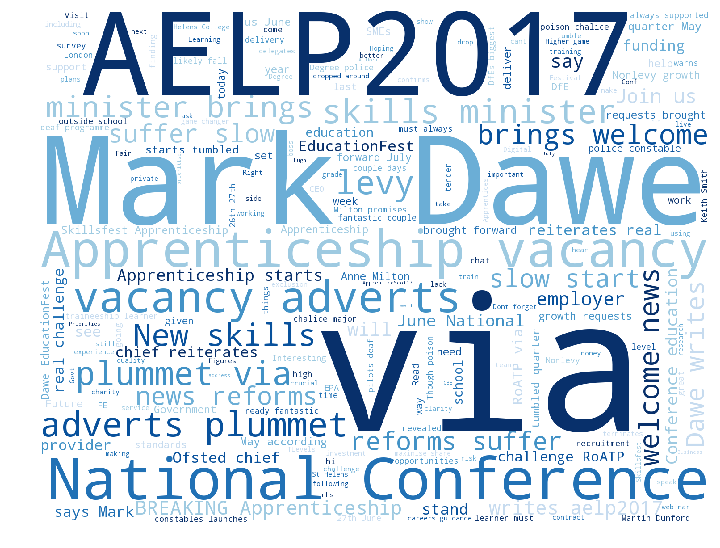
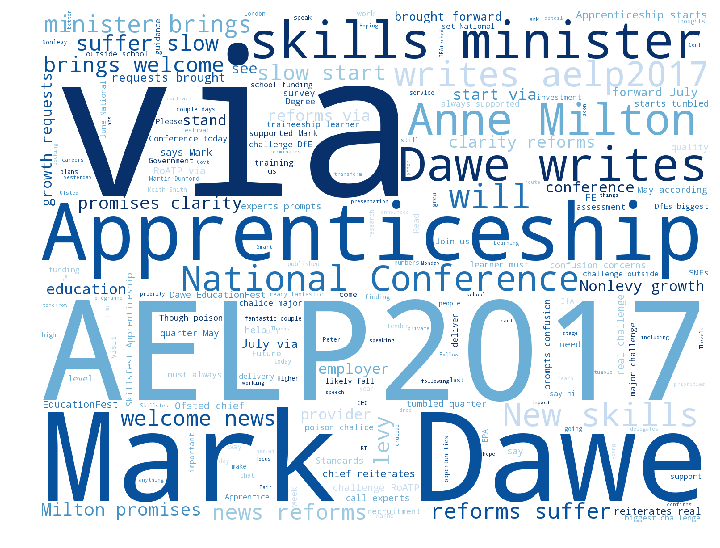
updated 170630

diff --git a/docs/current/FE-accounts/dashboard.html b/docs/current/FE-accounts/dashboard.html
@@ -172,27 +172,27 @@
         <div class="header">
             <span class="header"><img class="header" src="https://assets.publishing.service.gov.uk/government/uploads/system/uploads/organisation/logo/1214/6.2614_DFE_IfA_Identity_Master_logo_RGB_AW.jpg" /></span>
             <span class="header"><h1>Twitter Dashboard<h1/></span>
-            <p>651 followers, 27 tweets</p>
-            <p>17 June 2017 - 26 June 2017</p>
+            <p>669 followers, 28 tweets</p>
+            <p>21 June 2017 - 30 June 2017</p>
         </div>
         <div class="line"></div>
         <div style="width: 100%; height: 80%;">
             <div style="float:left; width: 49%;">
                 <div style="float:left; width: 49%;">
-                    <h2>108 tweets from FE-accounts:</h2>
+                    <h2>125 tweets from FE-accounts:</h2>
                     <img class="wc" src="main-wc.png" />
                     <div class="line"></div>
                     <div style="width: 48%; float:left; margin-left:0%;" class="listbox">
                         <p><b>Most Used Hashtags</b></p>
                         <ol>
-                            <li>educationfest</li>
                             <li>aelp2017</li>
-                            <li>apprenticeship</li>
+                            <li>educationfest</li>
                             <li>skillsfest</li>
                             <li>apprenticeships</li>
-                            <li>narts</li>
                             <li>apprentices</li>
                             <li>smes</li>
+                            <li>apprenticeship</li>
+                            <li>tefresults</li>
                         </ol>
                     </div>
                     <div style="float:right; width: 48%;" class="listbox">
@@ -200,27 +200,27 @@
                         <ol>
                             <li>aelpuk</li>
                             <li>ofstednews</li>
-                            <li>educationgovuk</li>
+                            <li>annemilton</li>
                             <li>apprenticeships</li>
                             <li>amanda_spielman</li>
-                            <li>annemilton</li>
-                            <li>ndcs_uk</li>
+                            <li>ifateched</li>
+                            <li>feweek</li>
                             <li>cityandguilds</li>
                         </ol>
                     </div>
                 </div>
                 <div style="float:right; width: 49%;">
-                    <h2>170 tweets mentioning FE-accounts:</h2>
+                    <h2>194 tweets mentioning FE-accounts:</h2>
                     <img class="wc" src="all-wc.png"/>
                     <div class="line"></div>
                     <div style="width: 48%; float:left; margin-left:0%;" class="listbox">
                         <p><b>Most Used Hashtags</b></p>
                         <ol>
-                            <li>apprenticeships</li>
                             <li>aelp2017</li>
+                            <li>apprenticeships</li>
                             <li>apprenticeship</li>
-                            <li>education</li>
                             <li>educationfest</li>
+                            <li>education</li>
                             <li>skillsfest</li>
                             <li>funding</li>
                             <li>smes</li>
@@ -233,10 +233,10 @@
                             <li>tesfenews</li>
                             <li>aelpuk</li>
                             <li>nicklinford</li>
-                            <li>ncfe</li>
-                            <li>ncfeschools</li>
-                            <li>cacheorg</li>
+                            <li>smartassessor</li>
                             <li>jim_carley</li>
+                            <li>sdn_hq</li>
+                            <li>cacheorg</li>
                         </ol>
                     </div>
                 </div>
@@ -267,35 +267,35 @@
                     <div><img src="http://pbs.twimg.com/profile_images/808611488776785920/Q3yHxQJv_normal.jpg" class="profile"></div>
                     <div class="tweetext">
                         <p><b>FEWeek</b>
-                            <br>Charity's first deaf apprentices will help develop standards for other companies to take on deaf apprentices https://t.co/stGvBv4KsL</p>
-                        <p><b>11</b> likes, <b>9</b> retweets - <a href=https://twitter.com/statuses/876355808036106241>08:28 18 June 2017</a></p>
-                    </div>
-                </div>
-                
-                <div class="tweet">
-                    <div><img src="http://pbs.twimg.com/profile_images/808611488776785920/Q3yHxQJv_normal.jpg" class="profile"></div>
-                    <div class="tweetext">
-                        <p><b>FEWeek</b>
-                            <br>BREAKING: Apprenticeship vacancy adverts plummet to 0.5 percent of the previous month &gt; https://t.co/FMSzNhkx1F</p>
-                        <p><b>1</b> likes, <b>17</b> retweets - <a href=https://twitter.com/statuses/876733714641944576>09:29 19 June 2017</a></p>
-                    </div>
-                </div>
-                
-                <div class="tweet">
-                    <div><img src="http://pbs.twimg.com/profile_images/808611488776785920/Q3yHxQJv_normal.jpg" class="profile"></div>
-                    <div class="tweetext">
-                        <p><b>FEWeek</b>
-                            <br>The National Deaf Children's Society pilots a new deaf apprenticeship scheme with @rathbone_uk  @NDCS_UK https://t.co/gaQUsw2yOR</p>
-                        <p><b>7</b> likes, <b>10</b> retweets - <a href=https://twitter.com/statuses/876520401924501505>19:22 18 June 2017</a></p>
-                    </div>
-                </div>
-                
-                <div class="tweet">
-                    <div><img src="http://pbs.twimg.com/profile_images/808611488776785920/Q3yHxQJv_normal.jpg" class="profile"></div>
-                    <div class="tweetext">
-                        <p><b>FEWeek</b>
                             <br>NUS apprentice members want same benefits as other students, and to have their voices heard says @ShakiraSweet1 #AELP2017</p>
-                        <p><b>7</b> likes, <b>7</b> retweets - <a href=https://twitter.com/statuses/879299498803167233>11:25 26 June 2017</a></p>
+                        <p><b>8</b> likes, <b>8</b> retweets - <a href=https://twitter.com/statuses/879299498803167233>11:25 26 June 2017</a></p>
+                    </div>
+                </div>
+                
+                <div class="tweet">
+                    <div><img src="http://pbs.twimg.com/profile_images/808611488776785920/Q3yHxQJv_normal.jpg" class="profile"></div>
+                    <div class="tweetext">
+                        <p><b>FEWeek</b>
+                            <br>.@AnneMilton says she wants to see a turnaround on falling #apprenticeship starts, and is focused on listening #AELP2017</p>
+                        <p><b>7</b> likes, <b>8</b> retweets - <a href=https://twitter.com/statuses/879277409945755648>09:57 26 June 2017</a></p>
+                    </div>
+                </div>
+                
+                <div class="tweet">
+                    <div><img src="http://pbs.twimg.com/profile_images/808611488776785920/Q3yHxQJv_normal.jpg" class="profile"></div>
+                    <div class="tweetext">
+                        <p><b>FEWeek</b>
+                            <br>Be first to read the "welcome" announcements from skills minister @AnneMilton here. #AELP2017 https://t.co/DGGq7HgaWP</p>
+                        <p><b>4</b> likes, <b>11</b> retweets - <a href=https://twitter.com/statuses/879276487072993281>09:53 26 June 2017</a></p>
+                    </div>
+                </div>
+                
+                <div class="tweet">
+                    <div><img src="http://pbs.twimg.com/profile_images/808611488776785920/Q3yHxQJv_normal.jpg" class="profile"></div>
+                    <div class="tweetext">
+                        <p><b>FEWeek</b>
+                            <br>BREAKING this morning. @educationgovuk publish long awaited 20% min off-the-job apprenticeship training guidance https://t.co/0c2P3Shqqy</p>
+                        <p><b>6</b> likes, <b>9</b> retweets - <a href=https://twitter.com/statuses/879265378379214848>09:09 26 June 2017</a></p>
                     </div>
                 </div>
                 
@@ -306,27 +306,27 @@
                 <h2>Most popular mentions:</h2>
                 
                 <div class="tweet">
+                    <div><img src="http://pbs.twimg.com/profile_images/662033158305615872/CNdfOxS8_normal.jpg" class="profile"></div>
+                    <div class="tweetext"><b>FionaYMCAawards</b> - 344 followers
+                        <br>
+                        <p>"Employers are telling @AELPUK that they want qualifications in Apprenticeships. Every single one of them" @dawe_mark #AELP2017</p>
+                        <p><b>17</b> likes, <b>15</b> retweets - <a href=https://twitter.com/statuses/879377643535290369>16:35 26 June 2017</a></p>
+                    </div>
+                </div>
+                <div class="tweet">
                     <div><img src="http://pbs.twimg.com/profile_images/875464220552437760/YbxKpzDG_normal.jpg" class="profile"></div>
-                    <div class="tweetext"><b>NickLinford</b> - 10,987 followers
+                    <div class="tweetext"><b>NickLinford</b> - 11,005 followers
                         <br>
                         <p>"We are hearing apprenticeship starts in May is way down. Like a drop to 20% or 25%. A dramatic fall." says @AELPUK CEO. #Educationfest https://t.co/Sqzrb02LPA</p>
                         <p><b>9</b> likes, <b>18</b> retweets - <a href=https://twitter.com/statuses/877878153938518019>13:17 22 June 2017</a></p>
                     </div>
                 </div>
                 <div class="tweet">
-                    <div><img src="http://pbs.twimg.com/profile_images/657158741112950785/Y-fagem2_normal.jpg" class="profile"></div>
-                    <div class="tweetext"><b>MoseVicky</b> - 156 followers
+                    <div><img src="http://pbs.twimg.com/profile_images/874228002145619968/io3Tt3Lw_normal.jpg" class="profile"></div>
+                    <div class="tweetext"><b>educationgovuk</b> - 243,866 followers
                         <br>
-                        <p>Minister confirms importance of high quality apprenticeships not just high level. Levels 2-7 must reach all learners @AELPUK @YMCAawards https://t.co/P0GmVgyYhr</p>
-                        <p><b>6</b> likes, <b>8</b> retweets - <a href=https://twitter.com/statuses/879280058908717057>10:07 26 June 2017</a></p>
-                    </div>
-                </div>
-                <div class="tweet">
-                    <div><img src="http://pbs.twimg.com/profile_images/808611488776785920/Q3yHxQJv_normal.jpg" class="profile"></div>
-                    <div class="tweetext"><b>FEWeek</b> - 21,990 followers
-                        <br>
-                        <p>Apprenticeship levy offers huge opportunities, but in non-levy world there are fears about lack of money - Mark Dawe @AELPUK #Educationfest https://t.co/WyfzHl8jnE</p>
-                        <p><b>4</b> likes, <b>10</b> retweets - <a href=https://twitter.com/statuses/877877556061413376>13:14 22 June 2017</a></p>
+                        <p>Today published guidance setting out more detail on 20% off job training for #apprentices #aelp2017 @AELPUK https://t.co/5G4g4FI0BK</p>
+                        <p><b>9</b> likes, <b>15</b> retweets - <a href=https://twitter.com/statuses/879360172791132160>15:26 26 June 2017</a></p>
                     </div>
                 </div>
             
